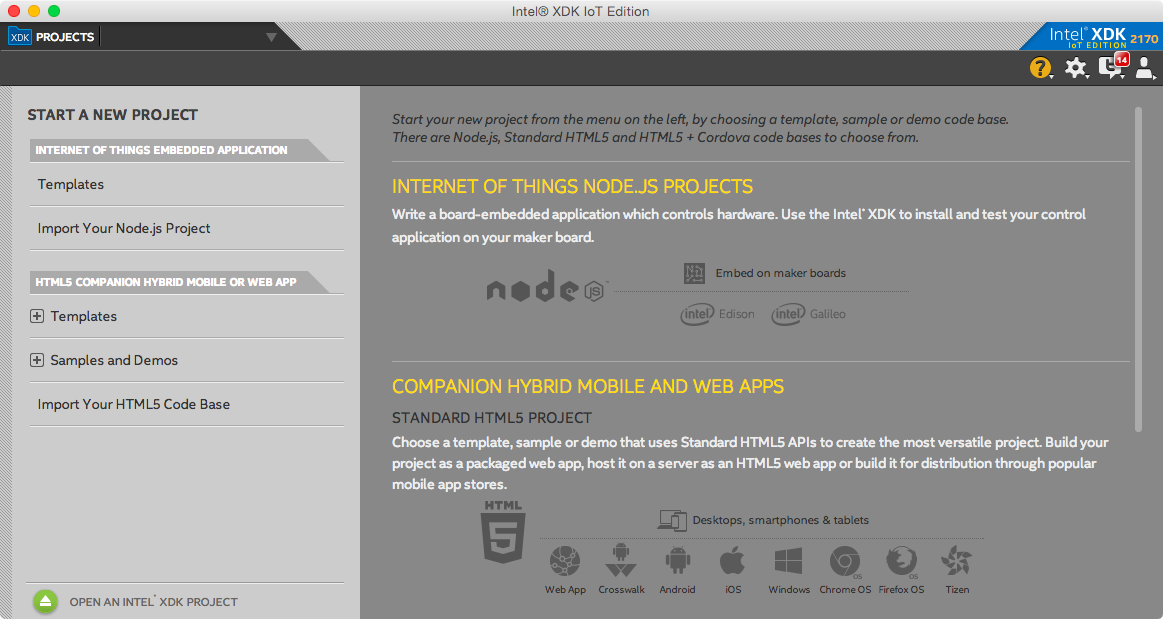
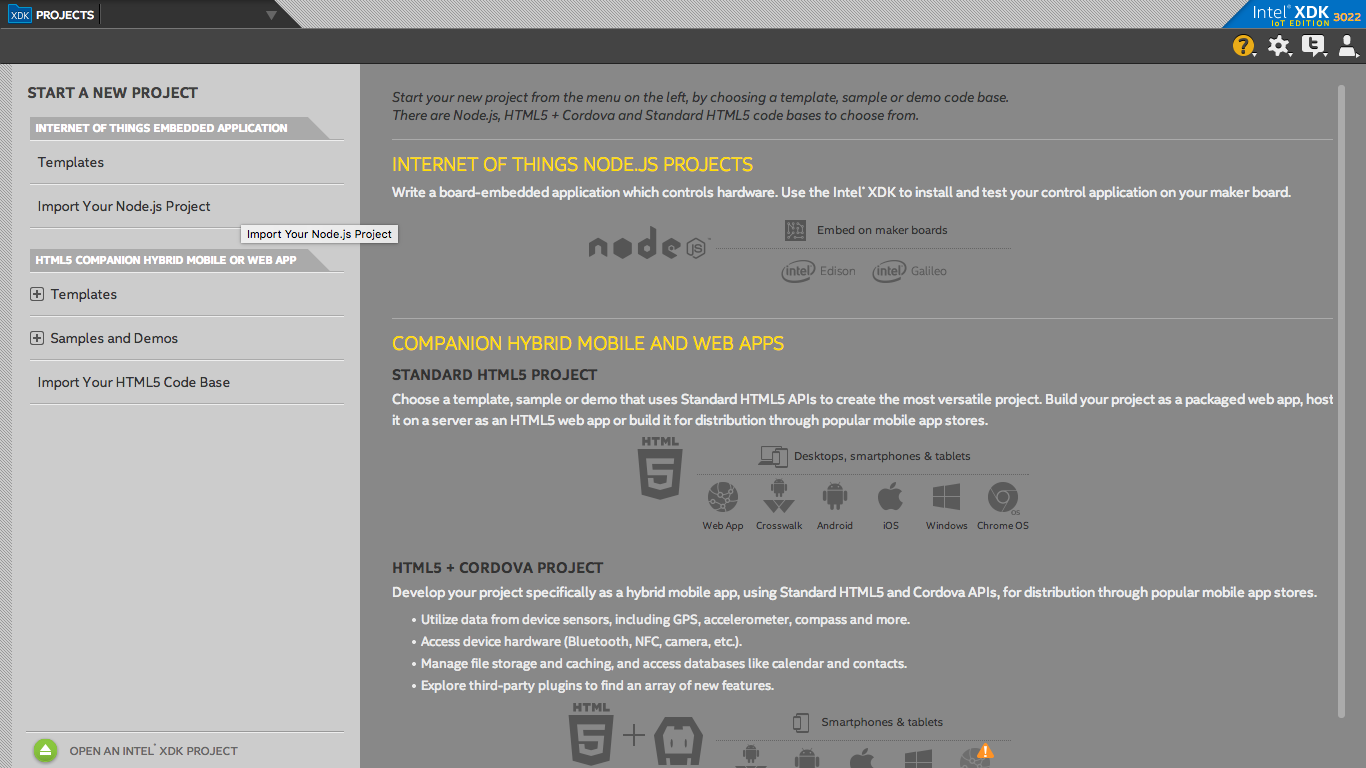
Replace XDK images with v3022 images

diff --git a/alarm-clock/javascript/README.md b/alarm-clock/javascript/README.md
@@ -56,6 +56,10 @@ In Intel® XDK IoT Edition, select **Import Your Node.js Project**:
 
 ![](./../../images/js/xdk-menu.png)
 
+On the "New Project" screen, click on the folder icon:
+
+![](./../../images/js/xdk-new-project.png)
+
 Then, navigate to the directory where the example project exists, and select it:
 
 ![](./../../images/js/xdk-select.png)
